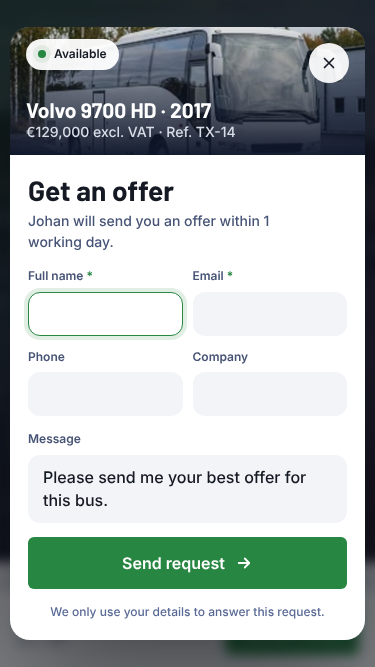
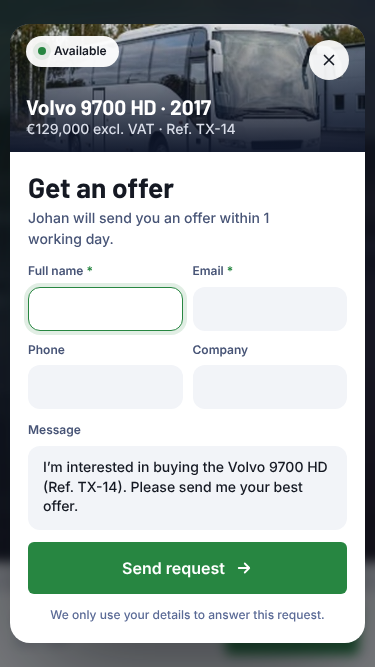
Truxco record: offer popup message names the bus
Claude-Session: https://claude.ai/code/session_01CJrfSMbtJkdqaRmDBKHX4E

diff --git a/truxco-design/website-v2/BusDetail.dc.html b/truxco-design/website-v2/BusDetail.dc.html
@@ -62,9 +62,11 @@ a{color:#3050A6}a:hover{color:#151923}
 .of-x:focus-visible,.of-submit:focus-visible{outline:2px solid #278641;outline-offset:3px}
 @keyframes ofFade{from{opacity:0}}@keyframes ofIn{from{opacity:0;transform:translateY(16px) scale(.97)}}
 @media (max-width: 760px){.of-dialog{grid-template-columns:minmax(0,1fr);max-width:480px;border-radius:20px}.of-side{height:104px;padding:12px 16px;justify-content:flex-end}.of-side-top{position:absolute;top:12px;left:16px}.of-perks,.of-side-meta{display:none}.of-side-body{gap:0}.of-side-name{font-size:21px!important}.of-main{padding:20px 18px 18px}.of-form{gap:14px}.of-x{background:rgba(255,255,255,0.92)}}
-@media (max-width: 480px){.of-wrap{padding:10px}.of-in{font-size:16px;height:44px}.of-grid{gap:12px 10px}.of-submit{height:52px}}
+@media (max-width: 480px){.of-wrap{padding:10px}.of-ta{font-size:14px!important;line-height:1.4!important;min-height:84px}.of-form{gap:12px!important}.of-in{font-size:16px;height:44px}.of-grid{gap:10px}.of-submit{height:52px}}
 @media (max-height: 600px){.of-main{padding-top:20px;padding-bottom:16px}.of-form{gap:12px}.of-in{height:40px}}
 @media (max-height: 600px){.of-agent{display:none}.of-side{height:72px}.of-side-top{display:none}}
+@media (max-width: 480px) and (max-height: 660px){.of-side{height:92px}.of-main{padding-top:16px;padding-bottom:14px}}
+@media (max-height: 600px){.of-side{height:72px}}
 @media (prefers-reduced-motion: reduce){.of-overlay,.of-dialog{animation:none}.of-x:hover{transform:none}}
 .bd-tag{display:inline-flex;align-items:center;gap:6px;font-size:13px;font-weight:600;color:#FFFFFF;padding:6px 12px;border-radius:999px}
 .bd-back:hover{color:#FFFFFF}
@@ -502,7 +504,7 @@ a{color:#3050A6}a:hover{color:#151923}
 <div class="of-f"><label for="of-phone">Phone</label><input id="of-phone" type="tel"  autocomplete="tel" class="of-in"></div>
 <div class="of-f"><label for="of-company">Company</label><input id="of-company" type="text"  autocomplete="organization" class="of-in"></div>
 </div>
-<div class="of-f"><label for="of-msg">Message</label><textarea id="of-msg" rows="2" class="of-in of-ta">Please send me your best offer for this bus.</textarea></div>
+<div class="of-f"><label for="of-msg">Message</label><textarea id="of-msg" rows="2" class="of-in of-ta">I’m interested in buying the Volvo 9700 HD (Ref. TX-14). Please send me your best offer.</textarea></div>
 <button type="submit" class="of-submit">Send request<svg aria-hidden="true" width="18" height="18" viewBox="0 0 24 24" fill="none" stroke="currentColor" stroke-width="2.4" stroke-linecap="round" stroke-linejoin="round"><path d="M5 12h14M13 6l6 6-6 6"></path></svg></button>
 <p class="of-agent" style="margin: 0">We only use your details to answer this request.</p>
 </form>

diff --git a/truxco-design/DESIGN-NOTES.md b/truxco-design/DESIGN-NOTES.md
@@ -198,3 +198,4 @@ Second artboard "UsedBuses.dc.html" in the V2 preview (https://claude.ai/artifac
   - Size: the popup is a bit taller and roomier, with 36/34px padding, 20px gaps and 48px inputs.
   - Still no scroll. Checked heights: 1366×640 → 526px, 375×667 → 613px, 320×568 → 532px.
   - Small screens: the compact sizes only apply under 600px screen height.
+- Offer popup message pre-filled as "I’m interested in buying the Volvo 9700 HD (Ref. TX-14). Please send me your best offer." On mobile the message box is 3 lines (14px) and spacing is tightened on short phones; still no scroll (checked 1366×640, 1280×600, 375×667, 360×640, 320×568, 390×844).
